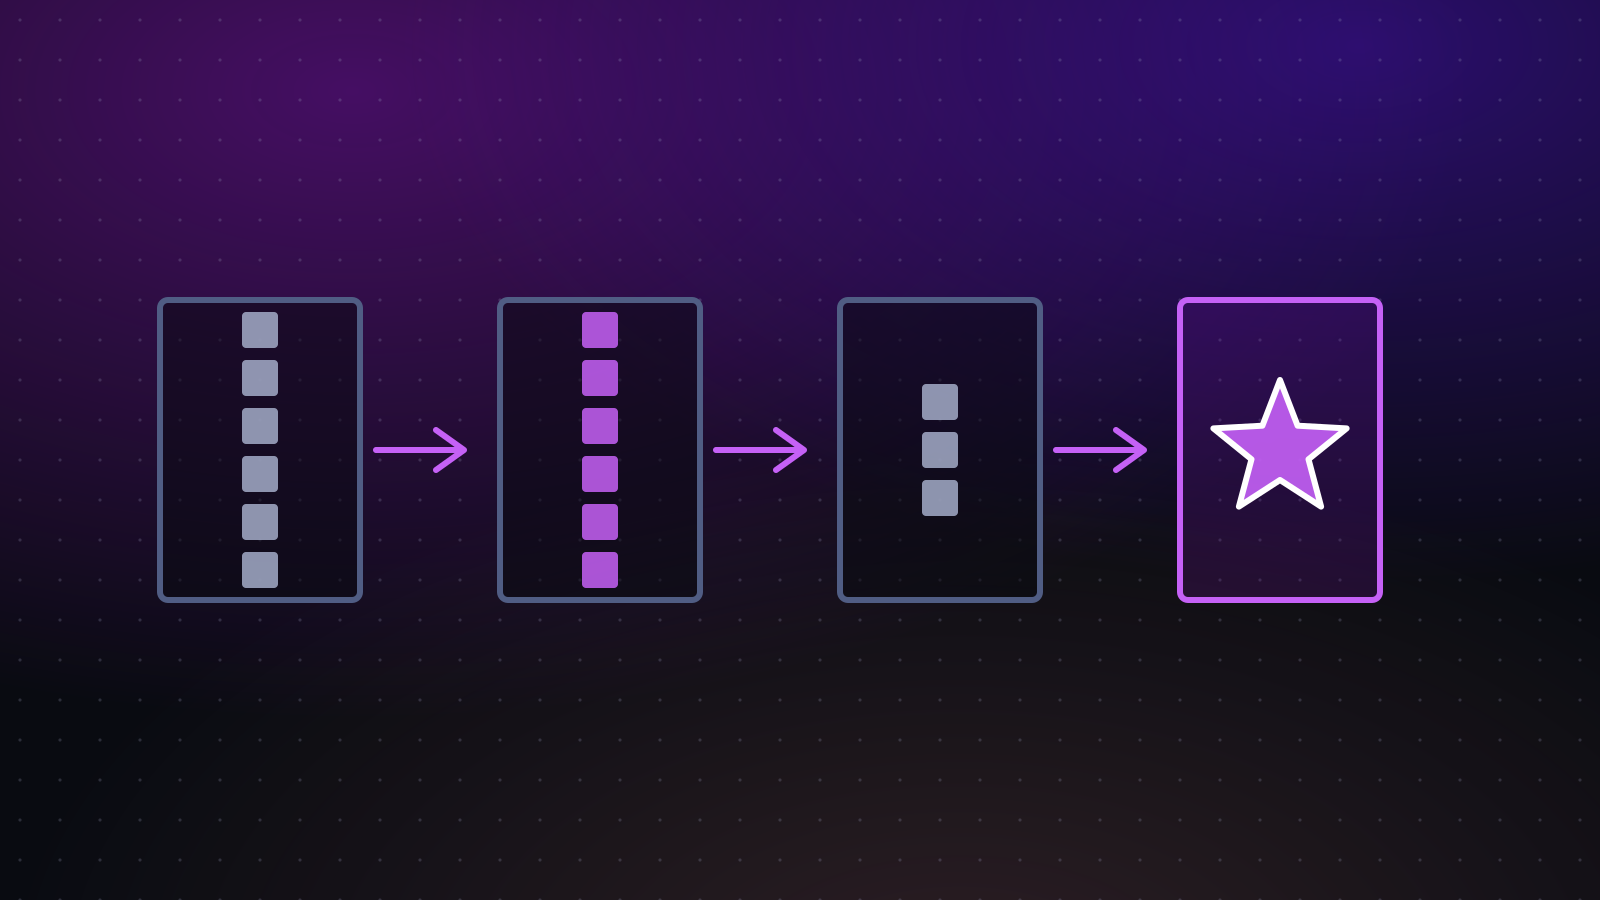
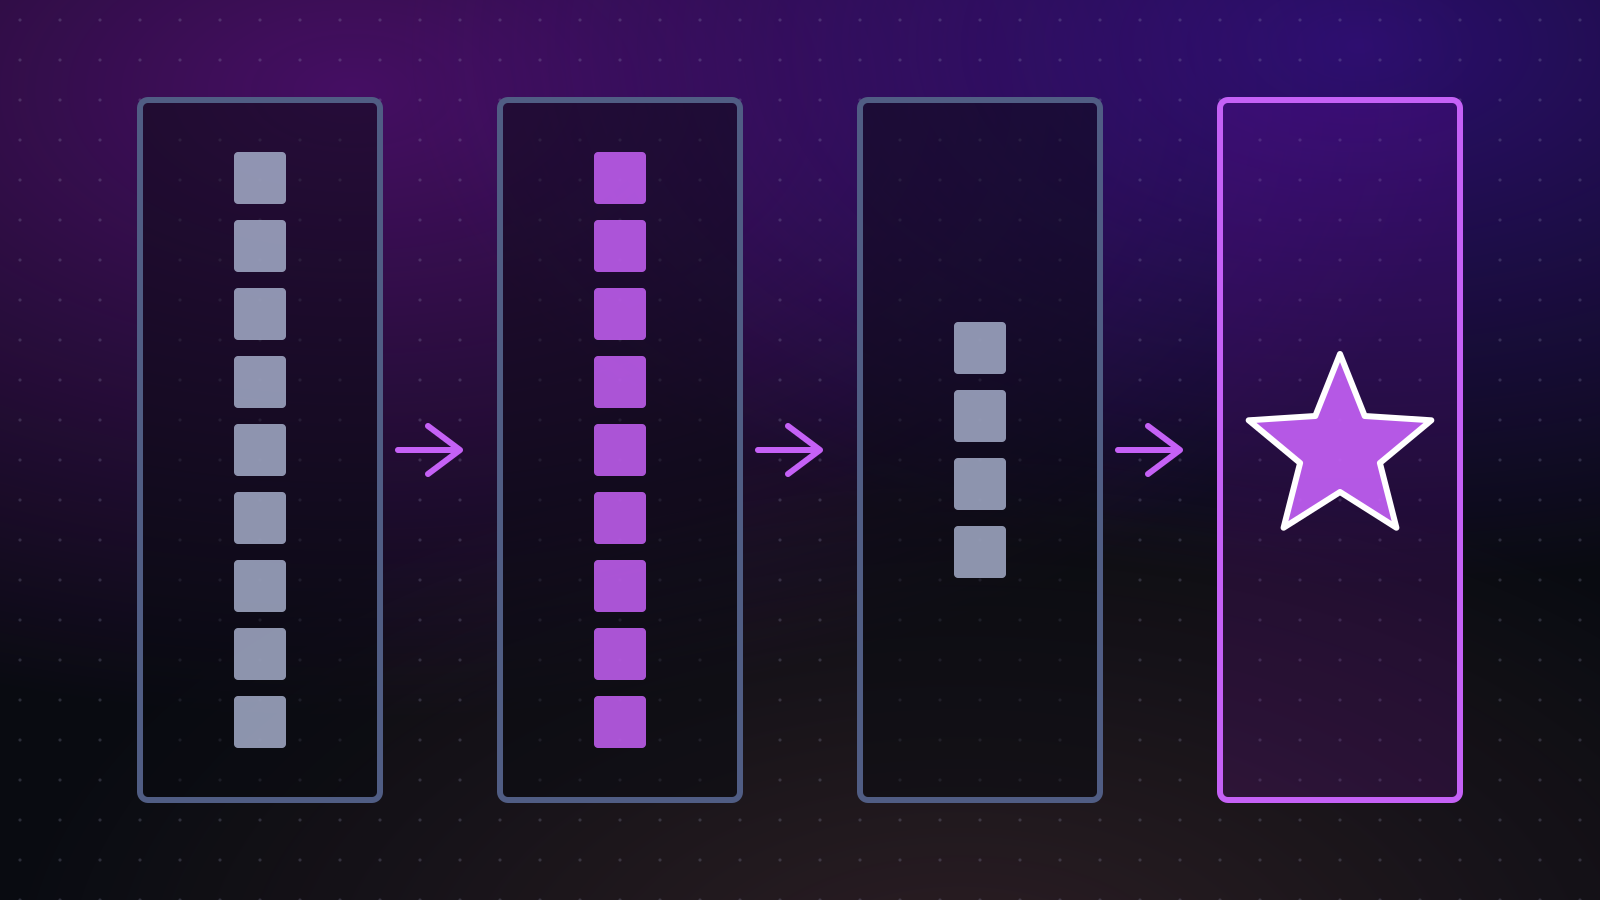
fix: make the sorting and pipeline covers span the frame
The basic sorting bars and the Dart pipeline sat in the middle band, so
with the card label over the top the bottom looked empty. The bars are
taller on a lower baseline, and the pipeline stages run from near the
top to near the bottom with more cells. The skill's composition notes
now say to span y = 100 to 800 and mention the card crop and image
cache.

Changed region(s): [[0.3125, 0.0933, 0.9375, 0.9022], [0.0625, 0.0933, 0.2812, 0.9022]]

diff --git a/scripts/generate-blog-covers.ts b/scripts/generate-blog-covers.ts
@@ -69,12 +69,12 @@ const wrap = (body: string) =>
 /** Bars in a shuffled order, two of them mid-swap. Basic sorting. */
 function basicSorting() {
   const heights = [0.35, 0.8, 0.5, 0.95, 0.25, 0.65, 0.45, 0.9, 0.3, 0.7, 0.55, 0.85]
-  const barW = 72
-  const gap = 28
+  const barW = 84
+  const gap = 32
   const totalW = heights.length * barW + (heights.length - 1) * gap
   const x0 = (W - totalW) / 2
-  const baseY = 700
-  const maxH = 460
+  const baseY = 790
+  const maxH = 580
   const swap = new Set([3, 4])
   let s = line(x0 - 40, baseY, x0 + totalW + 40, baseY, `stroke="${GREY_DIM}"`)
   heights.forEach((h, i) => {
@@ -183,18 +183,19 @@ function hashTable() {
 function dartAdventOfCode() {
   const y = H / 2
   const stages = [
-    { x: 160, count: 6, w: 200 },
-    { x: 500, count: 6, w: 200 },
-    { x: 840, count: 3, w: 200 },
-    { x: 1180, count: 1, w: 200 },
+    { x: 140, count: 9, w: 240 },
+    { x: 500, count: 9, w: 240 },
+    { x: 860, count: 4, w: 240 },
+    { x: 1220, count: 1, w: 240 },
   ]
+  const stageH = 700
   let s = ""
   stages.forEach((st, si) => {
     const isLast = si === stages.length - 1
-    s += rect(st.x, y - 150, st.w, 300, `stroke="${isLast ? PURPLE_LIGHT : GREY_DIM}" fill="${isLast ? PURPLE : NAVY}" fill-opacity="${isLast ? 0.2 : 0.5}"`)
+    s += rect(st.x, y - stageH / 2, st.w, stageH, `stroke="${isLast ? PURPLE_LIGHT : GREY_DIM}" fill="${isLast ? PURPLE : NAVY}" fill-opacity="${isLast ? 0.2 : 0.5}"`)
     if (!isLast) {
-      const cell = 36
-      const gap = 12
+      const cell = 52
+      const gap = 16
       const totalH = st.count * cell + (st.count - 1) * gap
       for (let i = 0; i < st.count; i++) {
         const cy = y - totalH / 2 + i * (cell + gap)
@@ -205,7 +206,7 @@ function dartAdventOfCode() {
       const cx = st.x + st.w / 2
       const pts: string[] = []
       for (let i = 0; i < 10; i++) {
-        const r = i % 2 === 0 ? 70 : 30
+        const r = i % 2 === 0 ? 96 : 42
         const a = -Math.PI / 2 + (i * Math.PI) / 5
         pts.push(`${(cx + r * Math.cos(a)).toFixed(1)},${(y + r * Math.sin(a)).toFixed(1)}`)
       }
@@ -214,8 +215,8 @@ function dartAdventOfCode() {
     if (si < stages.length - 1) {
       const ax = st.x + st.w
       const nx = stages[si + 1].x
-      s += line(ax + 16, y, nx - 40, y, `stroke="${PURPLE_LIGHT}"`)
-      s += `<path d="M${nx - 64} ${y - 20} L${nx - 36} ${y} L${nx - 64} ${y + 20}" stroke="${PURPLE_LIGHT}"/>`
+      s += line(ax + 18, y, nx - 44, y, `stroke="${PURPLE_LIGHT}"`)
+      s += `<path d="M${nx - 72} ${y - 24} L${nx - 40} ${y} L${nx - 72} ${y + 24}" stroke="${PURPLE_LIGHT}"/>`
     }
   })
   return wrap(s)

diff --git a/.claude/skills/blog-cover/SKILL.md b/.claude/skills/blog-cover/SKILL.md
@@ -51,14 +51,18 @@ twelve shapes is the right count; more turns into texture.
    many applications down to one"), not the post.
 5. Look at it. Compose a contact sheet with sharp, or open `/blog/` on the dev
    server, and check the new cover next to the others for size, weight and
-   margins. Check it in the card on the homepage too, where the top is covered
-   by the title label.
+   margins. Check it in the card too: the card is a little squarer than 16:9,
+   so about 6% is cropped off each side, and the title label covers the
+   top-left quarter. Use a fresh browser session or a hard reload; the
+   optimised image responses are cached and an old cover can linger.
 
 ## Common fixes
 
-- Too much empty space: the shapes are too small or the composition is
-  centred in the middle band. Scale the shapes up and anchor them low or
-  high so a secondary element (an arc, a curve) can use the rest.
+- Too much empty space, usually at the bottom of the card: the shapes are too
+  small or the composition is centred in the middle band, and the label then
+  hides the top of it. Scale the shapes up so the drawing spans from about
+  y = 100 to y = 800, or anchor it low and let a secondary element (an arc, a
+  curve) use the top.
 - Reads as noise: too many shapes, or more than one purple element. Drop
   shapes and keep one focal point.
 - Looks like another cover: the same primitive (a grid of boxes, a row of
